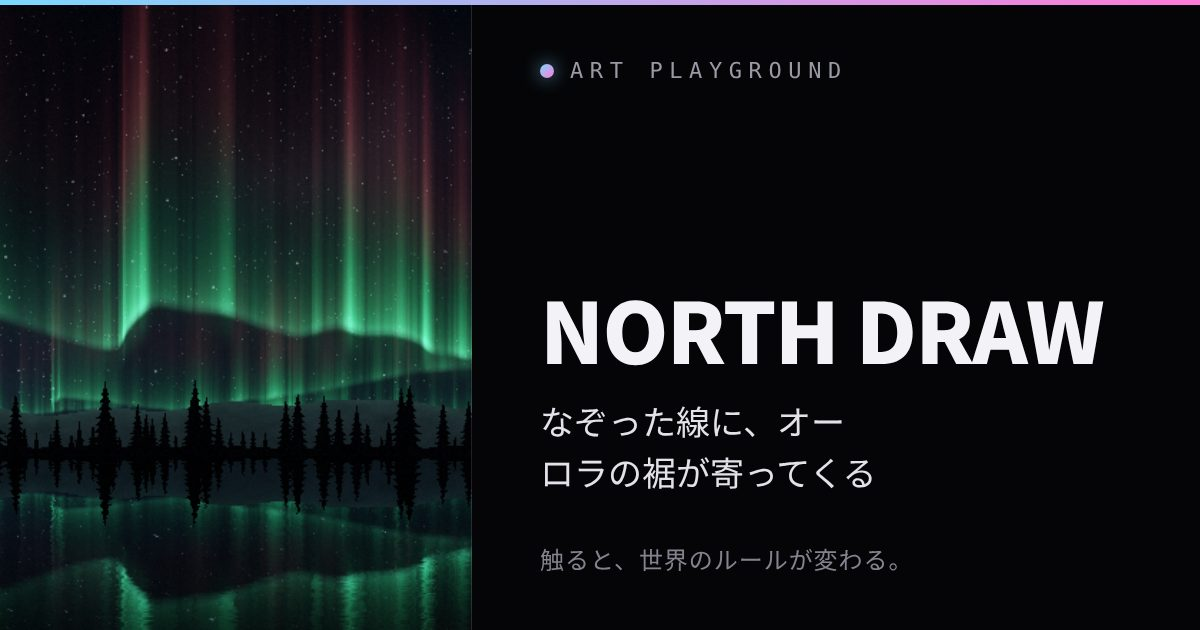
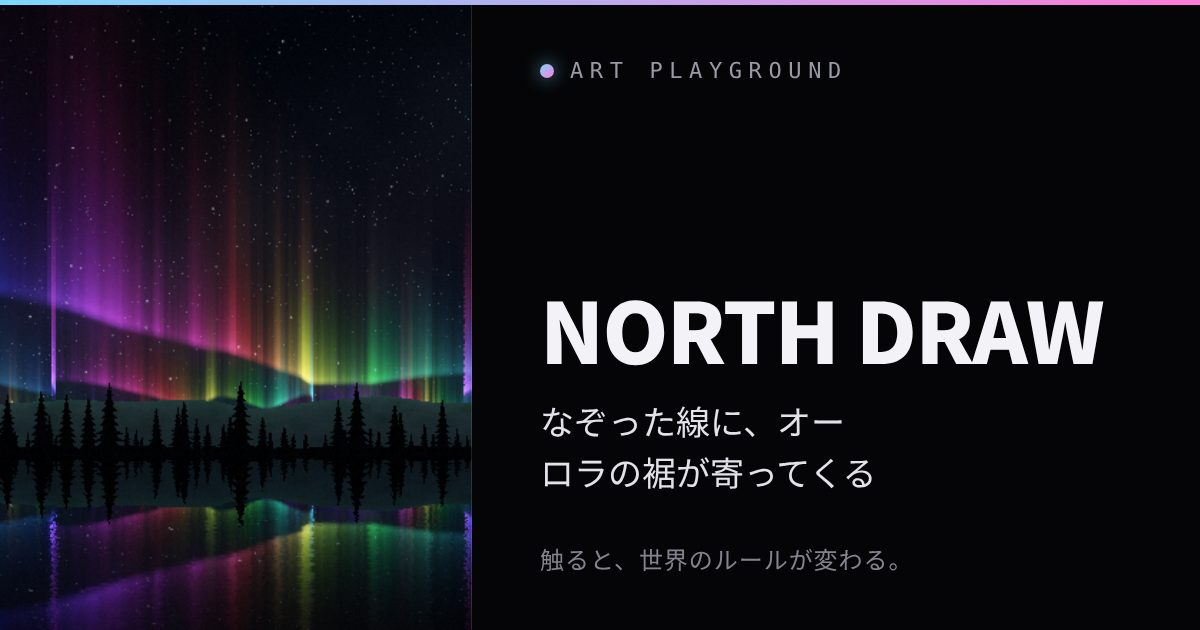
NORTH DRAW: add rainbow aurora night and start with it
Claude-Session: https://claude.ai/code/session_01WTpgaDiAhmkRkSUNtYQKAM

Changed region(s): [[0.0, 0.0, 0.4008, 1.0]]

diff --git a/art-v110-north-draw.html b/art-v110-north-draw.html
@@ -10,7 +10,9 @@
        何もしなくても: 星空と天の川の下で、オーロラのカーテンがゆっくり形を変え、光の筋が流れる。ときどき自然にブレイクアップが起きる
        なぞる  = 指の線の高さにオーロラの裾が引き寄せられ、その形が波になって左右へ伝わる(空が少しのあいだ形を覚える)
        タップ  = ブレイクアップ(オーロラの爆発): その場所から明るくなって横へ広がり、上が赤く、裾が紫に色づき、筋が速く踊る
-       ✦      = 別の夜(山と森の形・カーテンの配置・オーロラの種類: ふつうの緑/嵐の夜/静かな夜/日本で見える赤いオーロラ)
+       ✦      = 別の夜(山と森の形・カーテンの配置・オーロラの種類: ふつうの緑/嵐の夜/静かな夜/日本で見える赤いオーロラ/虹のオーロラ)
+       2026/10/21 おっちゃん「オーロラもレインボーにできる？」→ ✦に「虹のオーロラ」を足し、最初はこの夜から始める。
+         裾の緑を、幕に沿って横へ流れる虹に置きかえる(高さでも少しずつ色がずれ、爆発中は色が速くめぐる)。上の赤・裾の紫はそのまま
        ↻      = 寄せた形を戻す
      本物っぽさ: 空を高さごとの薄い層に分けて、視線が各層を通る位置でカーテンの濃さを足し合わせる(だから縦の筋と奥行きの重なりが自然に出る)。
        色は高さで決まる(下の縁=緑の酸素557nm、上=赤の酸素630nm、激しい時の裾=紫の窒素)。手前に山と針葉樹のシルエット、それを映す湖。
@@ -34,7 +36,7 @@ precision highp float;
 uniform vec2 uRes;
 uniform float uTime, uSeed, uHor, uFl;
 uniform float uBurst, uBurstX, uBurstAge;
-uniform float uGreen, uRed, uPurple, uRays;
+uniform float uGreen, uRed, uPurple, uRays, uRain;
 uniform vec3 uZ;
 uniform sampler2D uDisp;
 uniform float uQ;
@@ -44,6 +46,9 @@ float n1(float x,float s){ float i=floor(x), f=fract(x); f=f*f*(3.-2.*f); return
 float n2(vec2 p){ vec2 i=floor(p), f=fract(p); f=f*f*(3.-2.*f);
   return mix(mix(hash(i),hash(i+vec2(1,0)),f.x),mix(hash(i+vec2(0,1)),hash(i+vec2(1,1)),f.x),f.y); }
 float fb2(vec2 p){ return n2(p)*.55+n2(p*2.1+3.1)*.28+n2(p*4.3+7.7)*.17; }
+
+/* 虹のオーロラ用: 色相hの色(0〜1) */
+vec3 rainbow(float h){ return clamp(abs(mod(h*6.+vec3(0.,4.,2.),6.)-3.)-1.,0.,1.); }
 
 float disp(float x){ return texture2D(uDisp,vec2(clamp((x+8.)/16.,0.,1.),.5)).r*12.-6.; }
 
@@ -71,7 +76,10 @@ vec3 hitGlow(vec3 rd,float s,float x,float k,float z0){
   float pg=(smoothstep(-.05,.06,hh)*(exp(-hp*2.)+.7*exp(-hp*12.)) + .12*smoothstep(-.3,0.,hh)*step(hh,0.))*flame;
   float pr=smoothstep(.5,1.6,hh)*exp(-(hh-1.6)*.8)*uRed*(.45+uBurst*1.2);
   float pp=smoothstep(-.03,0.,hh)*(1.-smoothstep(0.,.12,hh))*uPurple*(.25+uBurst*1.6);
-  vec3 c=vec3(.18,1.,.48)*pg*uGreen+vec3(1.,.13,.28)*pr+vec3(.7,.25,1.)*pp;
+  // 虹のオーロラ: 裾の色が、幕に沿って横へ流れる虹になる(高さでも少しずつ色がずれる。爆発中は色が速くめぐる)
+  vec3 gc=vec3(.18,1.,.48);
+  if(uRain>0.){ float hu=fract(x*.2+k*.29+hh*.06-uTime*(.035+uBurst*.15)); gc=mix(gc,rainbow(hu)*.88+.14,uRain); }
+  vec3 c=gc*pg*uGreen+vec3(1.,.13,.28)*pr+vec3(.7,.25,1.)*pp;
   float sp=.6+uBurst*2.;
   float r1=n1(x*7.+uTime*(.9*sp)+k*31.,uSeed+k);                // 光の筋は幕に沿って横へ走る
   float r2=n1(x*24.-uTime*(1.6*sp)+k*7.,uSeed+k+.5);
@@ -219,7 +227,7 @@ gl.linkProgram(prog); if(!gl.getProgramParameter(prog,gl.LINK_STATUS)) console.e
 gl.useProgram(prog);
 var buf=gl.createBuffer(); gl.bindBuffer(gl.ARRAY_BUFFER,buf); gl.bufferData(gl.ARRAY_BUFFER,new Float32Array([-1,-1,3,-1,-1,3]),gl.STATIC_DRAW);
 var al=gl.getAttribLocation(prog,'a'); gl.enableVertexAttribArray(al); gl.vertexAttribPointer(al,2,gl.FLOAT,false,0,0);
-var U={}; ['uRes','uTime','uSeed','uHor','uFl','uBurst','uBurstX','uBurstAge','uGreen','uRed','uPurple','uRays','uZ','uDisp','uQ'].forEach(function(n){ U[n]=gl.getUniformLocation(prog,n); });
+var U={}; ['uRes','uTime','uSeed','uHor','uFl','uBurst','uBurstX','uBurstAge','uGreen','uRed','uPurple','uRays','uRain','uZ','uDisp','uQ'].forEach(function(n){ U[n]=gl.getUniformLocation(prog,n); });
 
 /* 寄せた形(64区間)をテクスチャで渡す */
 var NB=64, dU=new Float32Array(NB), dV=new Float32Array(NB), dBytes=new Uint8Array(NB*4);
@@ -235,7 +243,9 @@ var KINDS=[
   {name:'ふつうの緑のオーロラ', green:1.0, red:.3, purple:.35, rays:.9, z:[3.6,6.5,11]},
   {name:'嵐の夜(赤と紫が強い)', green:1.15, red:1.2, purple:.9, rays:1.0, z:[3.2,5.2,8.5]},
   {name:'静かな夜(淡い緑)', green:.75, red:.2, purple:.1, rays:.6, z:[4.2,8,13]},
-  {name:'日本で見える赤いオーロラ', green:.18, red:2.2, purple:.05, rays:.45, z:[9,13,18]}
+  {name:'日本で見える赤いオーロラ', green:.18, red:2.2, purple:.05, rays:.45, z:[9,13,18]},
+  // 2026/10/21 おっちゃん「オーロラもレインボーにできる？」→ 虹のオーロラ(本物には無い色。SEA SPARKLEの虹の夜に合わせた)
+  {name:'虹のオーロラ', green:1.05, red:.12, purple:.2, rays:.9, z:[3.6,6.5,11], rain:1}
 ];
 var kind=KINDS[0], seed=rnd(0,50), Z=[3.6,6.5,11];
 function newNight(i){ kind=KINDS[i]; seed=rnd(0,50); Z=kind.z.map(function(z){ return z*rnd(.9,1.1); }); }
@@ -321,7 +331,7 @@ function frame(now){
   gl.uniform2f(U.uRes,cv.width,cv.height);
   gl.uniform1f(U.uTime,clock); gl.uniform1f(U.uSeed,seed); gl.uniform1f(U.uHor,hor); gl.uniform1f(U.uFl,fl);
   gl.uniform1f(U.uBurst,burst); gl.uniform1f(U.uBurstX,burstX); gl.uniform1f(U.uBurstAge,burstAge);
-  gl.uniform1f(U.uGreen,kind.green); gl.uniform1f(U.uRed,kind.red); gl.uniform1f(U.uPurple,kind.purple); gl.uniform1f(U.uRays,kind.rays);
+  gl.uniform1f(U.uGreen,kind.green); gl.uniform1f(U.uRed,kind.red); gl.uniform1f(U.uPurple,kind.purple); gl.uniform1f(U.uRays,kind.rays); gl.uniform1f(U.uRain,kind.rain||0);
   gl.uniform3f(U.uZ,Z[0],Z[1],Z[2]); gl.uniform1f(U.uQ,Q);
   gl.drawArrays(gl.TRIANGLES,0,3);
   perf.ms+=performance.now()-a; perf.n++;
@@ -333,7 +343,7 @@ function reset(){ dU.fill(0); dV.fill(0); toast('寄せた形を戻した',1500)
 
 var resizeT=0;
 window.addEventListener('resize',function(){ clearTimeout(resizeT); resizeT=setTimeout(setup,200); });
-newNight(0); setup();
+newNight(4); setup();   // 虹のオーロラから始める(2026/10/21)
 requestAnimationFrame(frame);
 
 if(window.APKit){

diff --git a/CHANGELOG.md b/CHANGELOG.md
@@ -1,3 +1,4 @@
+- 2026-10-21 クロちゃん: NORTH DRAW(art-v110)に✦の夜「虹のオーロラ」を追加し、最初はこの夜から始めるように(おっちゃん「オーロラもレインボーにできる？」)。シェーダーに`uRain`を足し、裾の緑を、幕に沿って横へ流れる虹に置きかえる(画面の横幅で1周以上めぐり、高さでも少しずつずれる。爆発中は色が速くめぐる)。上の赤・裾の紫はそのまま。本物には無い色(SEA SPARKLEの虹の夜に合わせた)。ほかの4種の夜は変更なし。ヘッドレス(390×844、SwiftShader)で虹色(緑・黄・赤・紫・青・水色)が出ることと爆発を目視確認、エラーなし。作品ファイルが変わったのでポスターとOGPカードを作り直し、`gen_posters.py --check`・`gen_og.py --check`とも終了コード0。試作版`prototypes/aurora-pull.html`は変更なし(art-v110-north-draw.html, posters/, og/, CHANGELOG.md)
 - 2026-10-21 クロちゃん: SEA SPARKLEを採用・art-v111として昇格し、CURRENTに設定、録画の対象にも追加(おっちゃん「採用でカレントへ、録画もね」)。それまでのCURRENTだったNORTH DRAW(v110)はLOG先頭(NEXT SPRING v109の上)へ移動、Published worksは先頭をSEA SPARKLEにしてNORTH DRAWをその直後へ。ap-kit.jsの相対パスをルート用に修正、`<title>`の一言を今のルールに合わせて「光る波を切ると、渦が生まれる」に、確認用フック(window.__ss)は外した。`META`に操作ヒント「光る波をサッと切ると、渦になる」を1行追加。`REC_WORKS`に`art-v111-sea-sparkle.html`を追加: スマホ(Android Chrome)のUA・390×844のヘッドレスChromiumで、ギャラリーから開き、本物の録画ボタン→タップ・なぞる→停止を通し、動画(720×1558)に夜の海・砂浜・カニと2行の透かしが映り、始めと終わりで沖の波やエイの様子が変わることを確認(Canvas 2D。確認中だけ他作品の読み込みを止めた)。`tools/poster-config.json`に`hide:#hint,#toast`と「長押し1.8秒で光の輪を何重か作り、横になぞって切る→6秒待つ」を追加し、ポスター(ヒーロー含む)とOGPカードを生成、`gen_posters.py --check`・`gen_og.py --check`とも終了コード0(文字が写らず虹色の渦が写っていることを目視で確認)。試作版`prototypes/sea-sparkle.html`は残す。「現在の状態」も更新。**スマホ実機での録画中の重さは未確認**(Canvas 2D、格子130×280ほどの反応拡散を毎フレーム最大8ステップ＋粒の描画。重ければ`REC_WORKS`から外す)(art-v111-sea-sparkle.html, index.html, posters/, og/, tools/poster-config.json, CHANGELOG.md)
 - 2026-10-21 クロちゃん: SEA SPARKLE(試作)の砂浜の生き物をカニに戻した(おっちゃん「やっぱりカニだな」)。v7で描き直した後のカニ3匹(横長は4匹)。ヤドカリ・子ガメは数0で仕組みだけ残す。ヘッドレスでカニ3・ヤドカリ0・子ガメ0、エラーなしを確認(prototypes/sea-sparkle.html, CHANGELOG.md)
 - 2026-10-21 クロちゃん: SEA SPARKLE(試作)の砂浜の生き物を子ガメからヤドカリに交代(おっちゃん「カメよりカニの方が良かったかなー」「ヤドカリは？」)。子ガメは止めた(仕組みは残し、TURTLES=false)。ヤドカリ3匹(横長は4匹): 色ちがいの巻き貝を背負ってトコトコ前へ歩き、足あとと貝殻を引きずった跡が光る。指が近づくとぴゃっと貝殻に引っこみ、2〜4秒すると目からそーっと出てくる。波が駆け上がってくると引っこんで、少し砂の奥へころがされる。ヘッドレス(390×844)で歩く姿・引っこんだ姿を拡大で目視確認、エラーなし(prototypes/sea-sparkle.html, CHANGELOG.md)
